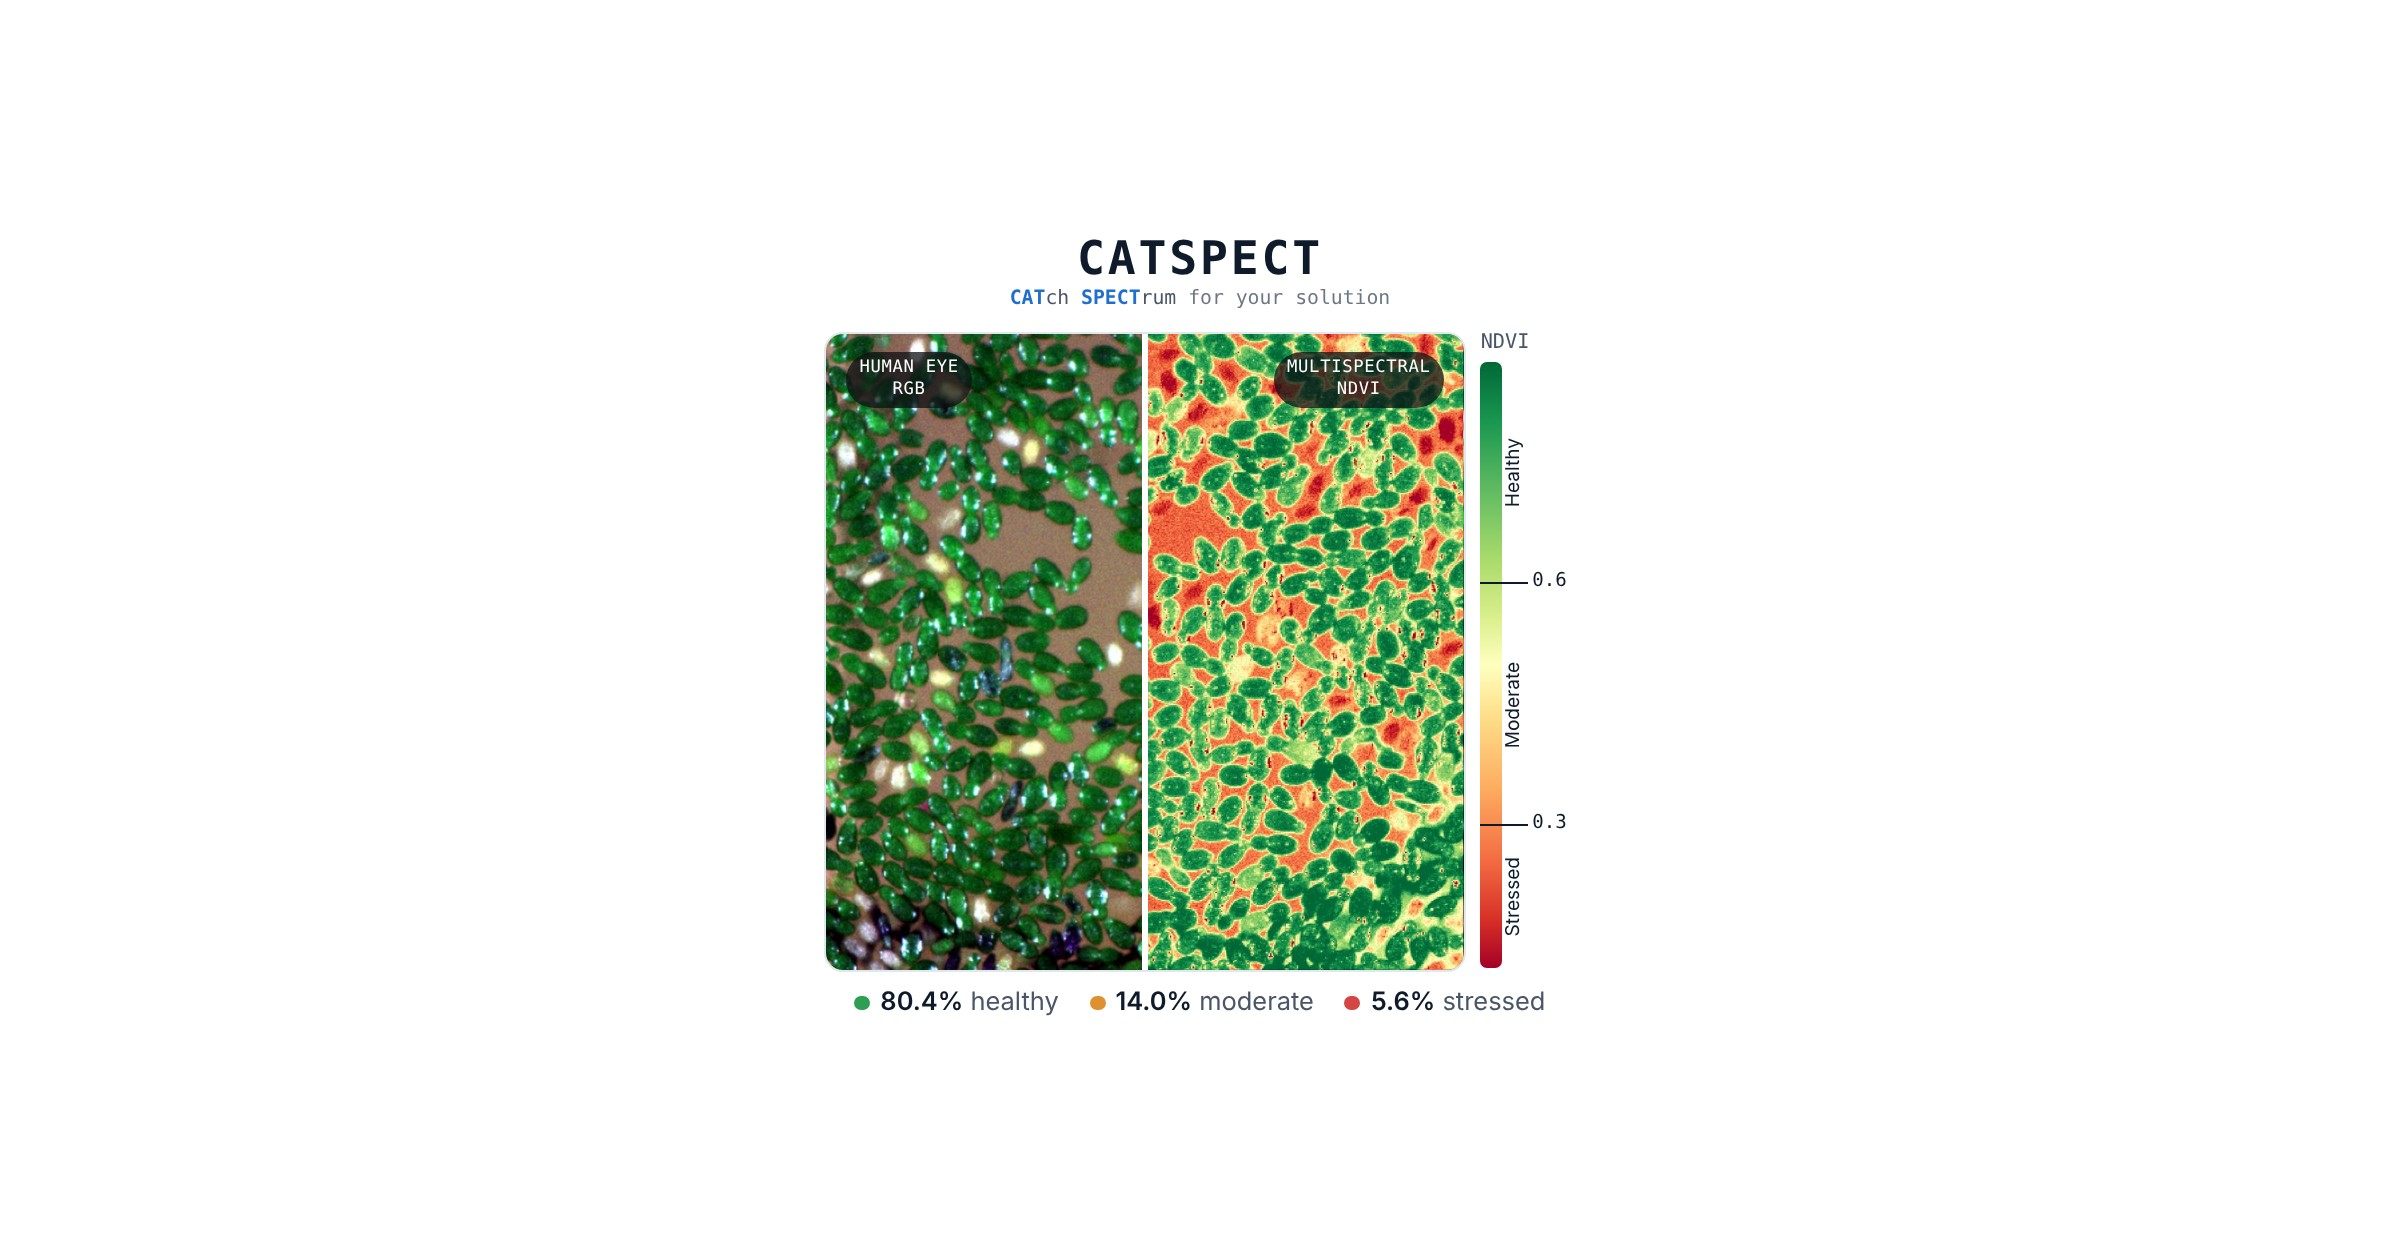
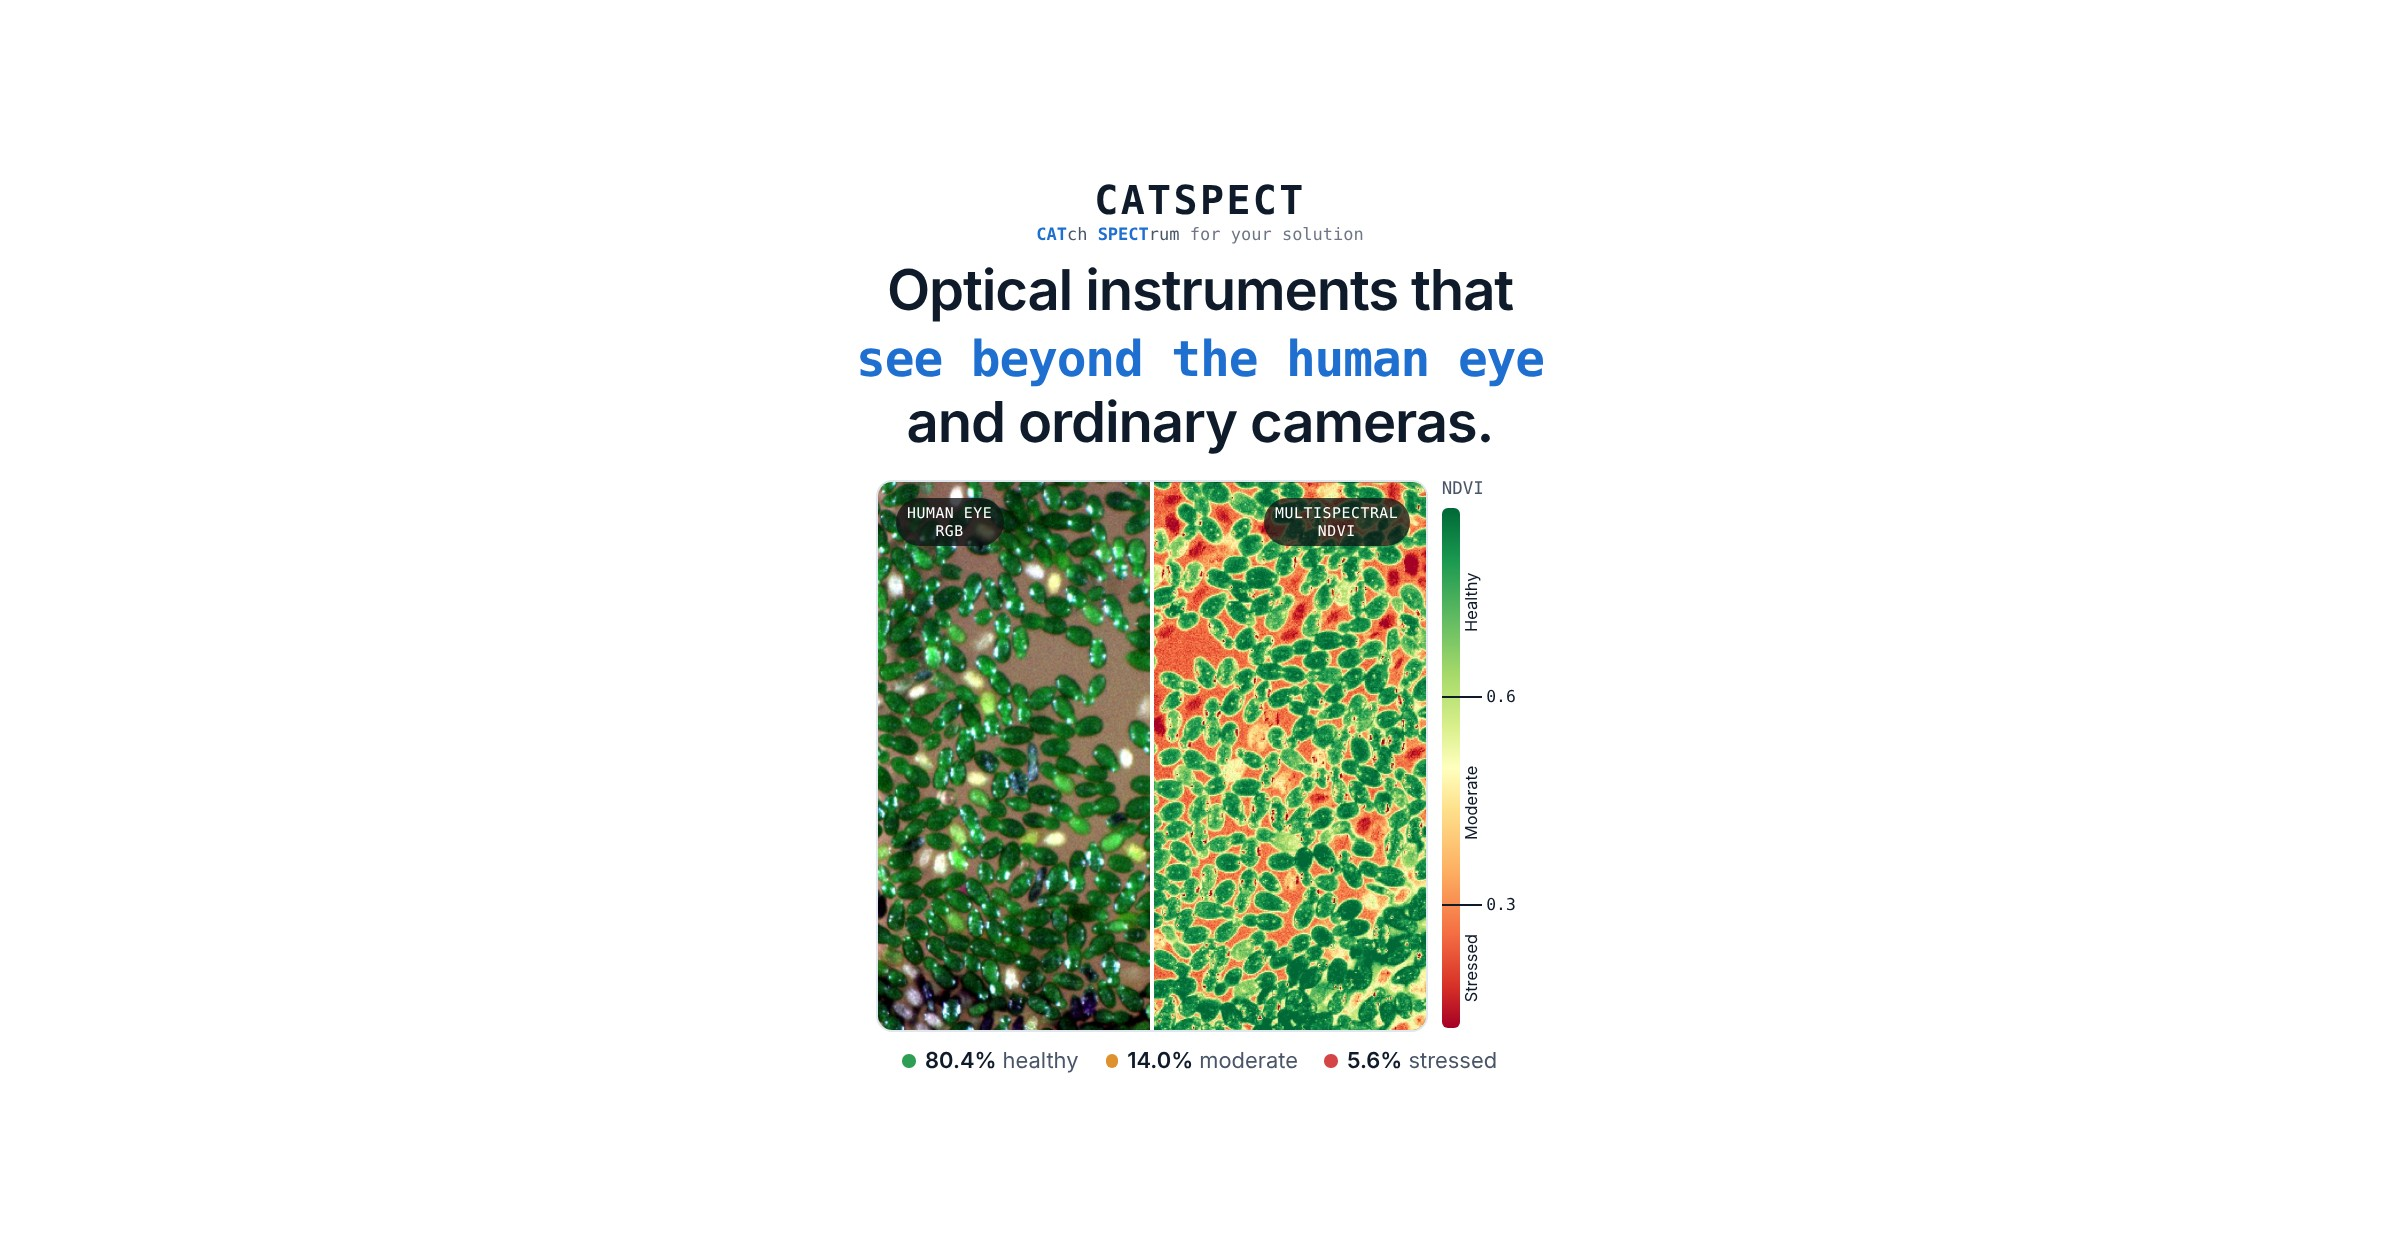
Thumbnail: add headline
Claude-Session: https://claude.ai/code/session_01VUU84amyiqJF3KbMs5nbfS

Changed region(s): [[0.3438, 0.1244, 0.6562, 0.8708]]

diff --git a/index.html b/index.html
@@ -12,12 +12,12 @@
 <meta property="og:title" content="CATSPECT: CATch SPECTrum for your solution">
 <meta property="og:description" content="A small team of physics lecturers building optical instruments that see beyond the human eye, from a 3D-printed prototype to a real-time plant-health imager.">
 <meta property="og:url" content="https://plugnawapong.github.io/catspect/">
-<meta property="og:image" content="https://plugnawapong.github.io/catspect/assets/og-image.jpg?v=4">
+<meta property="og:image" content="https://plugnawapong.github.io/catspect/assets/og-image.jpg?v=5">
 <meta property="og:image:width" content="2400">
 <meta property="og:image:height" content="1254">
 <meta property="og:image:alt" content="CATSPECT: a human-eye vs multispectral NDVI view of duckweed">
 <meta name="twitter:card" content="summary_large_image">
-<meta name="twitter:image" content="https://plugnawapong.github.io/catspect/assets/og-image.jpg?v=4">
+<meta name="twitter:image" content="https://plugnawapong.github.io/catspect/assets/og-image.jpg?v=5">
 <script>(function(){var t="sky";try{var v=localStorage.getItem("catspect-theme");if(v==="graphite"||v==="sky")t=v;}catch(e){}document.documentElement.setAttribute("data-style",t);})();</script>
 <link rel="preconnect" href="https://fonts.googleapis.com">
 <link rel="preconnect" href="https://fonts.gstatic.com" crossorigin>
